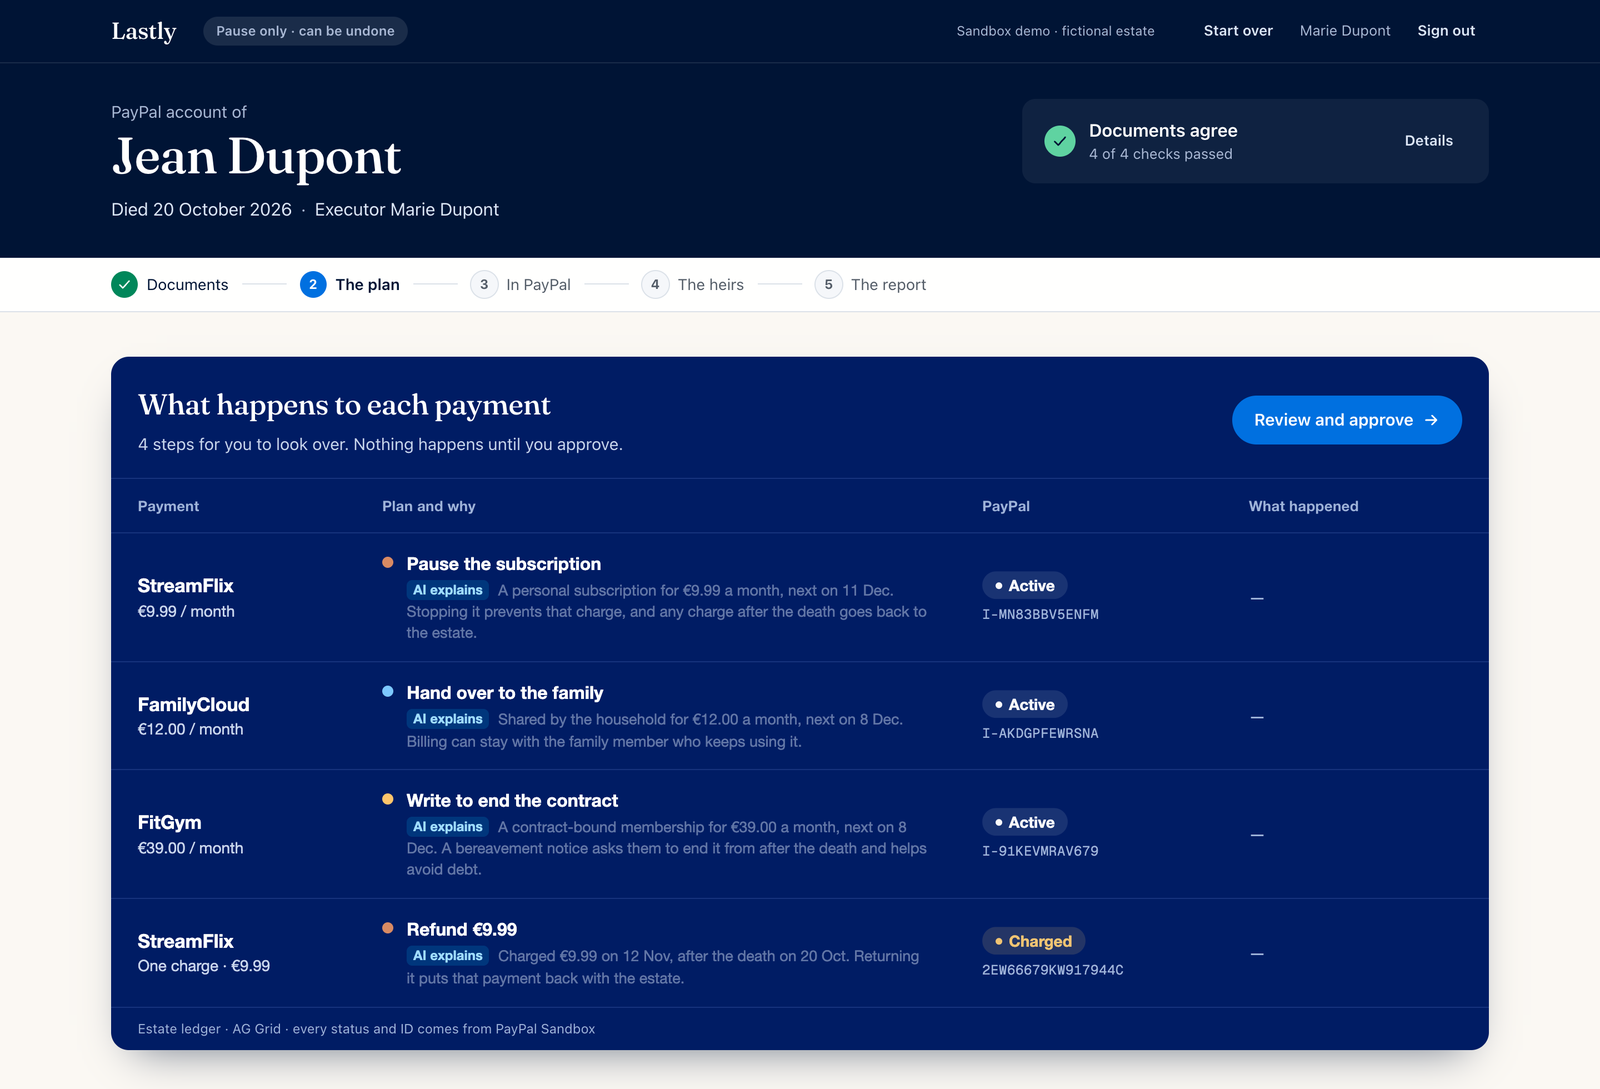
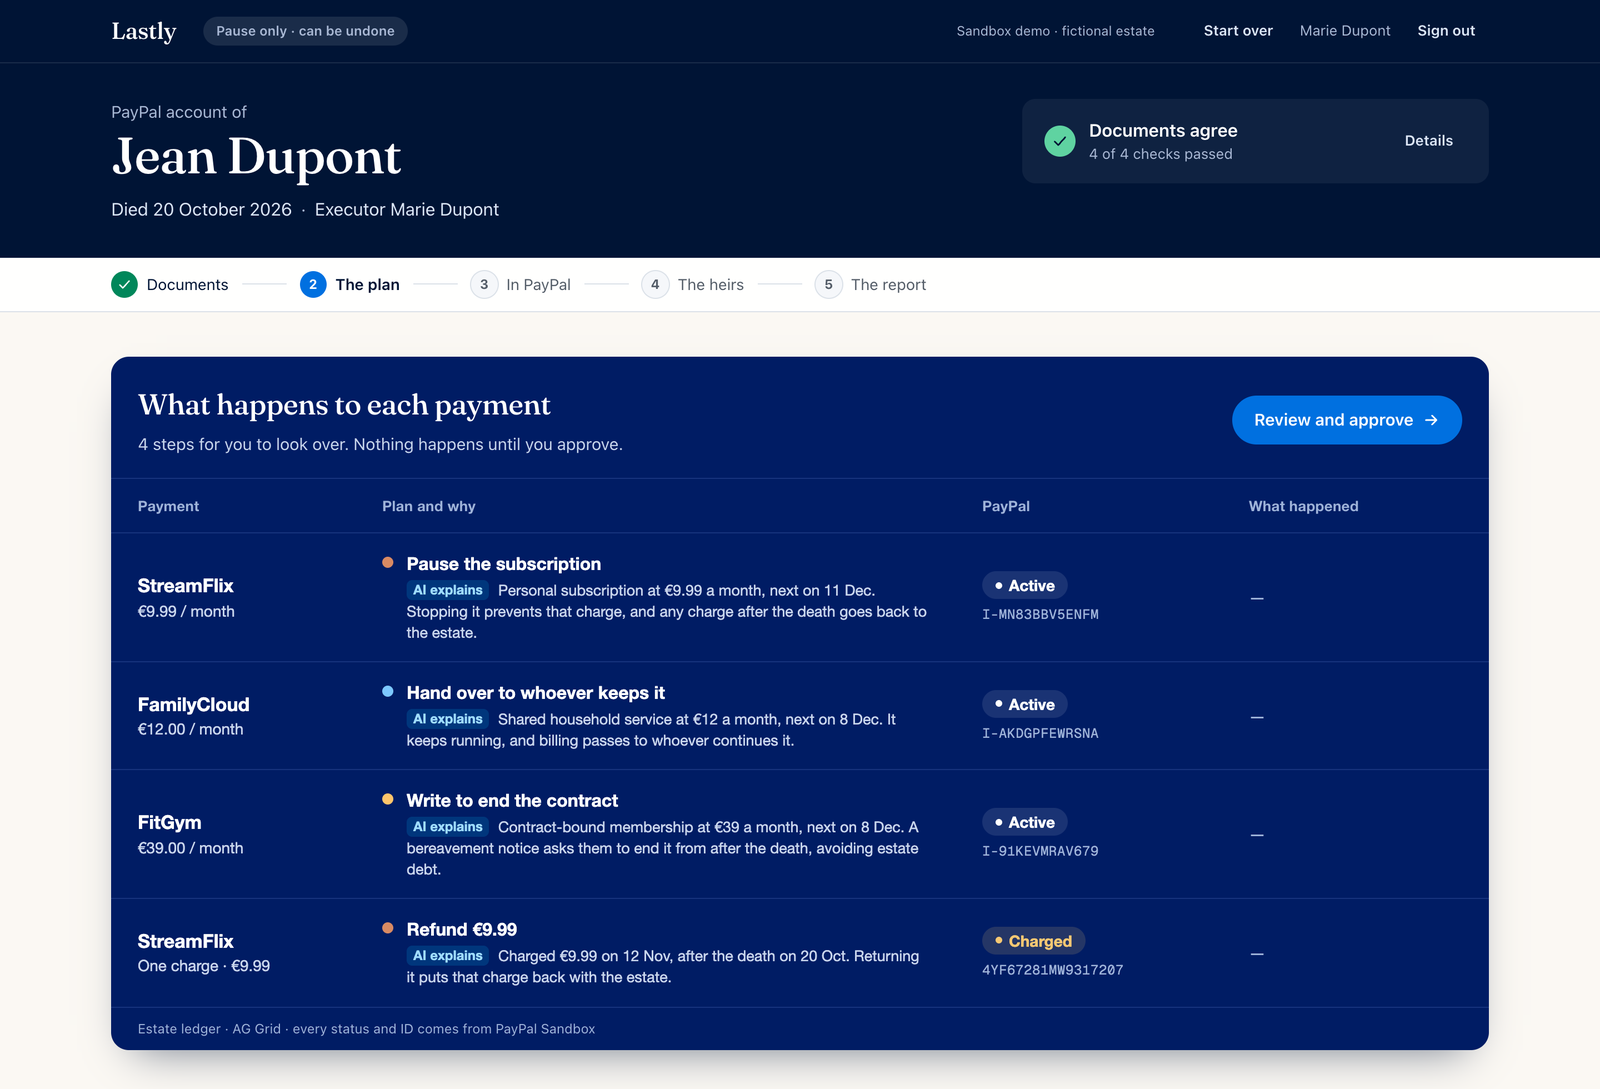
Docs: handover wording matches the portal (whoever keeps it); fresh plan screenshot

diff --git a/README.md b/README.md
@@ -2,13 +2,13 @@
 
 *6 minute read, about 2 for the top through the judges' table. The longer pages are linked where they come up.*
 
-![Lastly in one minute: Marie adds her father Jean's death certificate and notary act, AI reads them, rules check they agree, she approves the plan once, and PayPal Sandbox pauses StreamFlix, refunds the €9.99 taken after he died, and sets FamilyCloud up for the family to take over](docs/stages/lastly-stages.gif)
+![Lastly in one minute: Marie adds her father Jean's death certificate and notary act, AI reads them, rules check they agree, she approves the plan once, and PayPal Sandbox pauses StreamFlix, refunds the €9.99 taken after he died, and sets FamilyCloud up for whoever keeps it](docs/stages/lastly-stages.gif)
 
 The whole case in one minute, from the documents to the closing screen.
 
-When someone dies, their PayPal subscriptions keep charging. Lastly is for the person they chose to settle their affairs. It stops those charges and refunds the ones taken after the death to the card they came from. It hands a shared subscription over to the surviving partner and writes the letter for a merchant with a contract. Then it pays the recovered money to the heir.
+When someone dies, their PayPal subscriptions keep charging. Lastly is for the person they chose to settle their affairs. It stops those charges and refunds the ones taken after the death to the card they came from. It hands a shared subscription over to whoever keeps it and writes the letter for a merchant with a contract. Then it pays the recovered money to the heir.
 
-![The executor's plan for Jean Dupont's estate: pause StreamFlix, hand FamilyCloud over to the family, write to FitGym to end the contract, refund the €9.99 charged after his death](docs/portal-plan.png)
+![The executor's plan for Jean Dupont's estate: pause StreamFlix, hand FamilyCloud over to whoever keeps it, write to FitGym to end the contract, refund the €9.99 charged after his death](docs/portal-plan.png)
 
 We built it for the PayPal AI Hackathon. It runs on the PayPal Sandbox only, and every person in it is fictional.
 
@@ -27,7 +27,7 @@ It runs on Render's free plan, so the first load after a quiet spell can take ab
 |---|---|---|
 | Technological Implementation | The running app calls 10 PayPal Sandbox endpoints ([listed with code links](docs/paypal-apis.md)), and each write has its own idempotency key. The AI reads the documents, reads them again on its own, explains each decision and writes the merchant letter. | Open the demo case and approve. Each ledger row shows the ID PayPal returns. Code: [`lib/paypal.ts`](lib/paypal.ts) and [`app/api/estate/execute/route.ts`](app/api/estate/execute/route.ts). Run any attack against the live checks on [Try to cheat it](https://lastly-rdeo.onrender.com/try-to-cheat-it). |
 | Design | One flow from sign-in to the report for the notary, written for someone a few weeks after a death. | [Try it](#try-it) (four steps) and [Writing for someone grieving](docs/writing-for-someone-grieving.md). |
-| Potential Impact | Charges that keep running after a death, refunded to source, and a family subscription handed over instead of lost. We also say what only PayPal could do for real. | [What happens to each payment](#what-happens-to-each-payment) and [What it doesn't do](#what-it-doesnt-do). |
+| Potential Impact | Charges that keep running after a death, refunded to source, and a shared subscription handed over instead of lost. We also say what only PayPal could do for real. | [What happens to each payment](#what-happens-to-each-payment) and [What it doesn't do](#what-it-doesnt-do). |
 | Innovation/Idea | A mandate signed while alive decides who can act, and money has only two exits fixed in code: the original card and the heir on file. The AI can hold a case but never open one. | [The diagram](#where-the-ai-is-used), [Every rule has a reason](docs/every-rule-has-a-reason.md) and the [red-team results](docs/red-team-results.md) (21 of 21 attacks stopped). Try them yourself on [Try to cheat it](https://lastly-rdeo.onrender.com/try-to-cheat-it). |
 | Presentation | A video under 3 minutes and a short deck. | The video is linked on our Devpost page. The deck is at https://lastly-rdeo.onrender.com/pitch. |
 
@@ -48,7 +48,7 @@ The hosted demo resets the estate for each visitor. It pauses subscriptions inst
 | Demo estate | Lastly's decision | In PayPal |
 |---|---|---|
 | StreamFlix, charged €9.99 after the date of death | Stop and refund | Subscription paused or cancelled; capture refunded to the original card |
-| FamilyCloud, shared with the household | Keep for the family | New subscription on the same plan, for the partner to approve |
+| FamilyCloud, shared with the household | Hand over to whoever keeps it | New subscription on the same plan, for whoever keeps it to approve |
 | FitGym, under contract | Write to end the contract | No payment is stopped; AI writes the bereavement letter to the merchant |
 | Money recovered | Paid to the heir | One payout per refund, only to the heir account on file |
 
@@ -64,7 +64,7 @@ flowchart LR
   AI --> R[Rules: documents agree<br/>with each other and the mandate]
   AI -. second reading: any difference holds the case .-> R
   R -->|plan for each payment| OK([Executor approves])
-  OK --> S[Subscriptions API<br/>pause, cancel, or a new one for the partner]
+  OK --> S[Subscriptions API<br/>pause, cancel, or a new one to hand over]
   OK --> RF[Payments API<br/>refund to the original card only]
   RF --> PO[Payouts API<br/>to the heir on file only, once per refund]
   OK -. any other receiver or amount .-x X[Refused by the server]

diff --git a/docs/paypal-apis.md b/docs/paypal-apis.md
@@ -8,7 +8,7 @@ Every call below is made by the running app against the PayPal Sandbox, and each
 | `GET /v1/billing/subscriptions/{id}` | Reads each subscription's status, amount and billing dates | [`paypal.ts:279`](https://github.com/aminezar/lastly/blob/9406fa9f8c460307edf16b0b072e443236ee6023/lib/paypal.ts#L279) |
 | `POST /v1/billing/subscriptions/{id}/suspend` | Pauses a charge (the default stop, and it can be undone) | [`paypal.ts:290`](https://github.com/aminezar/lastly/blob/9406fa9f8c460307edf16b0b072e443236ee6023/lib/paypal.ts#L290) |
 | `POST /v1/billing/subscriptions/{id}/cancel` | Stops it for good, after a second confirmation (off on the public demo) | [`paypal.ts:284`](https://github.com/aminezar/lastly/blob/9406fa9f8c460307edf16b0b072e443236ee6023/lib/paypal.ts#L284) |
-| `POST /v1/billing/subscriptions` | Handover: a new subscription on the same plan for the partner to approve | [`paypal.ts:326`](https://github.com/aminezar/lastly/blob/9406fa9f8c460307edf16b0b072e443236ee6023/lib/paypal.ts#L326) |
+| `POST /v1/billing/subscriptions` | Handover: a new subscription on the same plan, for whoever keeps it to approve | [`paypal.ts:326`](https://github.com/aminezar/lastly/blob/9406fa9f8c460307edf16b0b072e443236ee6023/lib/paypal.ts#L326) |
 | `GET /v2/payments/captures/{id}` | Confirms the post-death charge, its amount and its date | [`paypal.ts:386`](https://github.com/aminezar/lastly/blob/9406fa9f8c460307edf16b0b072e443236ee6023/lib/paypal.ts#L386) |
 | `POST /v2/payments/captures/{id}/refund` | Refunds that charge to its original payment source | [`paypal.ts:382`](https://github.com/aminezar/lastly/blob/9406fa9f8c460307edf16b0b072e443236ee6023/lib/paypal.ts#L382) |
 | `GET /v2/payments/refunds/{id}` | Confirms the refund completed before anything is paid out | [`paypal.ts:392`](https://github.com/aminezar/lastly/blob/9406fa9f8c460307edf16b0b072e443236ee6023/lib/paypal.ts#L392) |

diff --git a/docs/what-it-doesnt-do.md b/docs/what-it-doesnt-do.md
@@ -6,6 +6,6 @@ The limits of the demo, and what production would need.
 - **The estate is seeded.** PayPal's Subscriptions and Transaction Search APIs only show a merchant its own data. The demo subscriptions are set up under our Sandbox business app, and Lastly reads them by ID. It can't list anyone's subscriptions with third parties.
 - **The merchant facts are seeded too.** "Shared with the household" and "under contract" come from notes in `data/seed-estate.json`, not from PayPal. In production those would come from the merchant or from the executor.
 - **The post-death charge is staged.** It's a Sandbox order paid with PayPal's test card. The hosted demo re-creates it after it has been refunded.
-- **Handover isn't a transfer.** The partner approves a new subscription. The old one keeps running until then.
+- **Handover isn't a transfer.** Whoever keeps it approves a new subscription. The old one keeps running until then.
 - **Only PayPal could run this for real.** One Sandbox business account plays all three merchants. One personal account plays both Jean and the heir. That's why we present Lastly as a feature PayPal could build, not as a third-party app.
 - **The executor's authority is simulated.** The mandate is seeded data. In production it would need real legal or notary verification.
